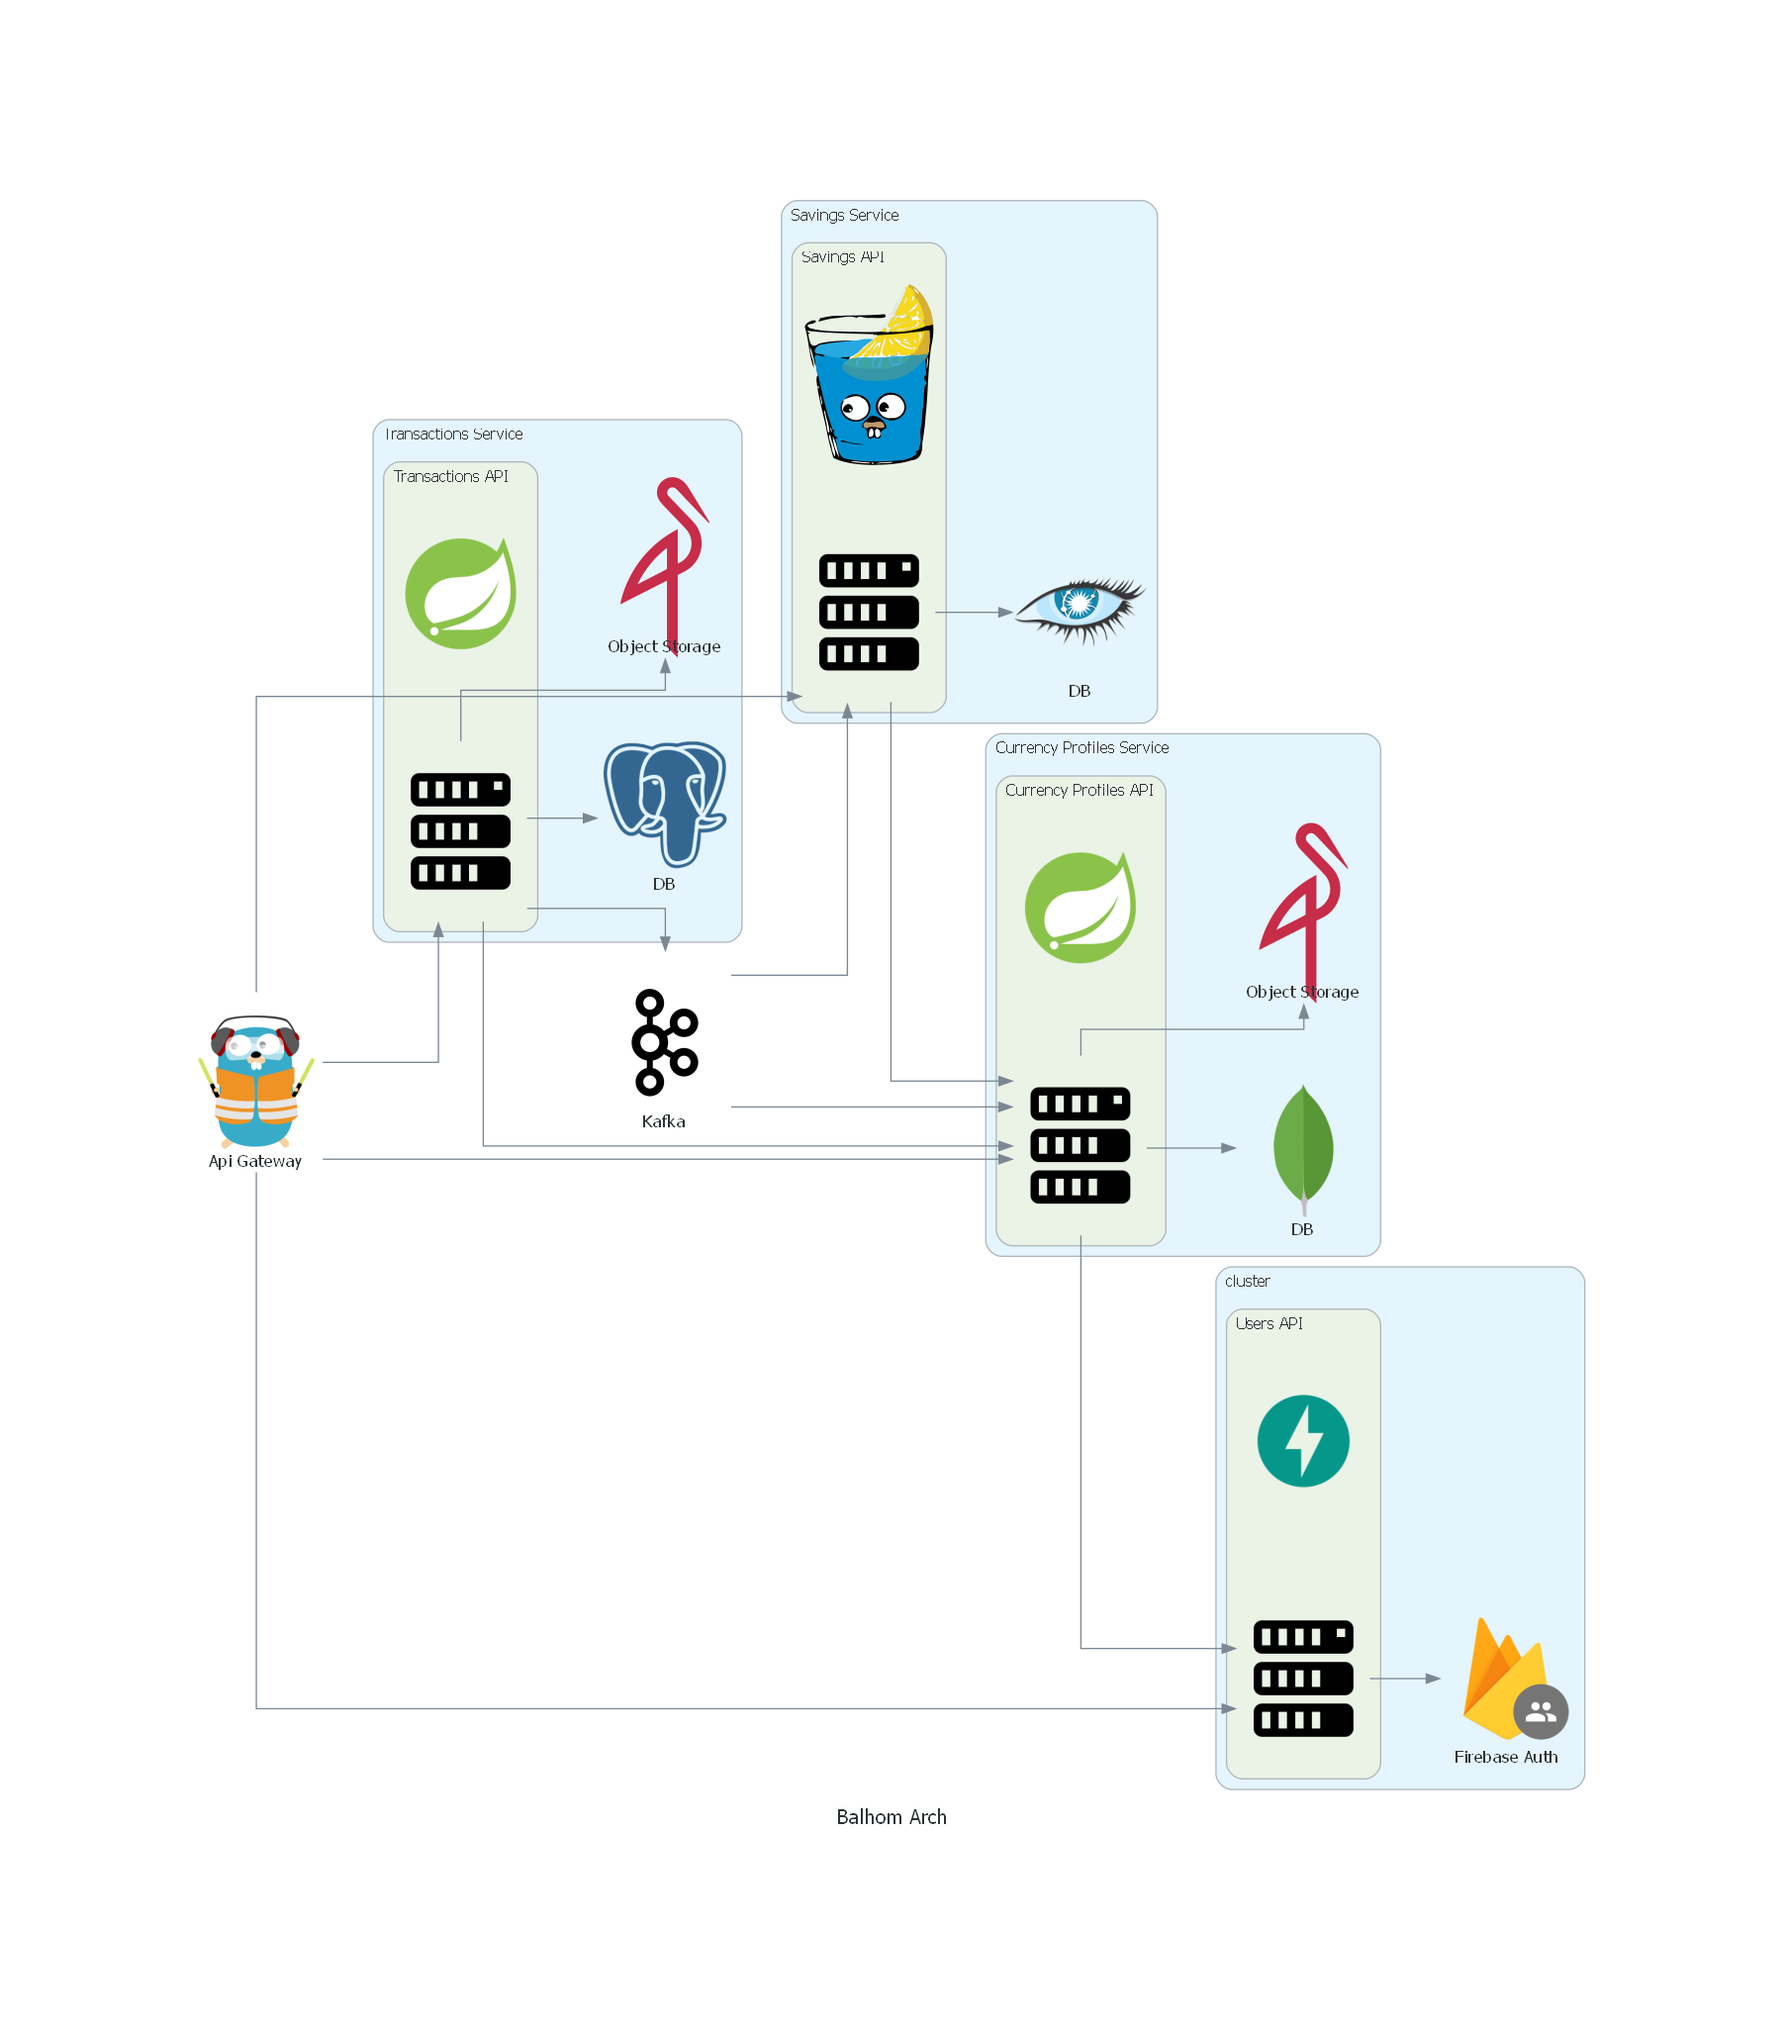
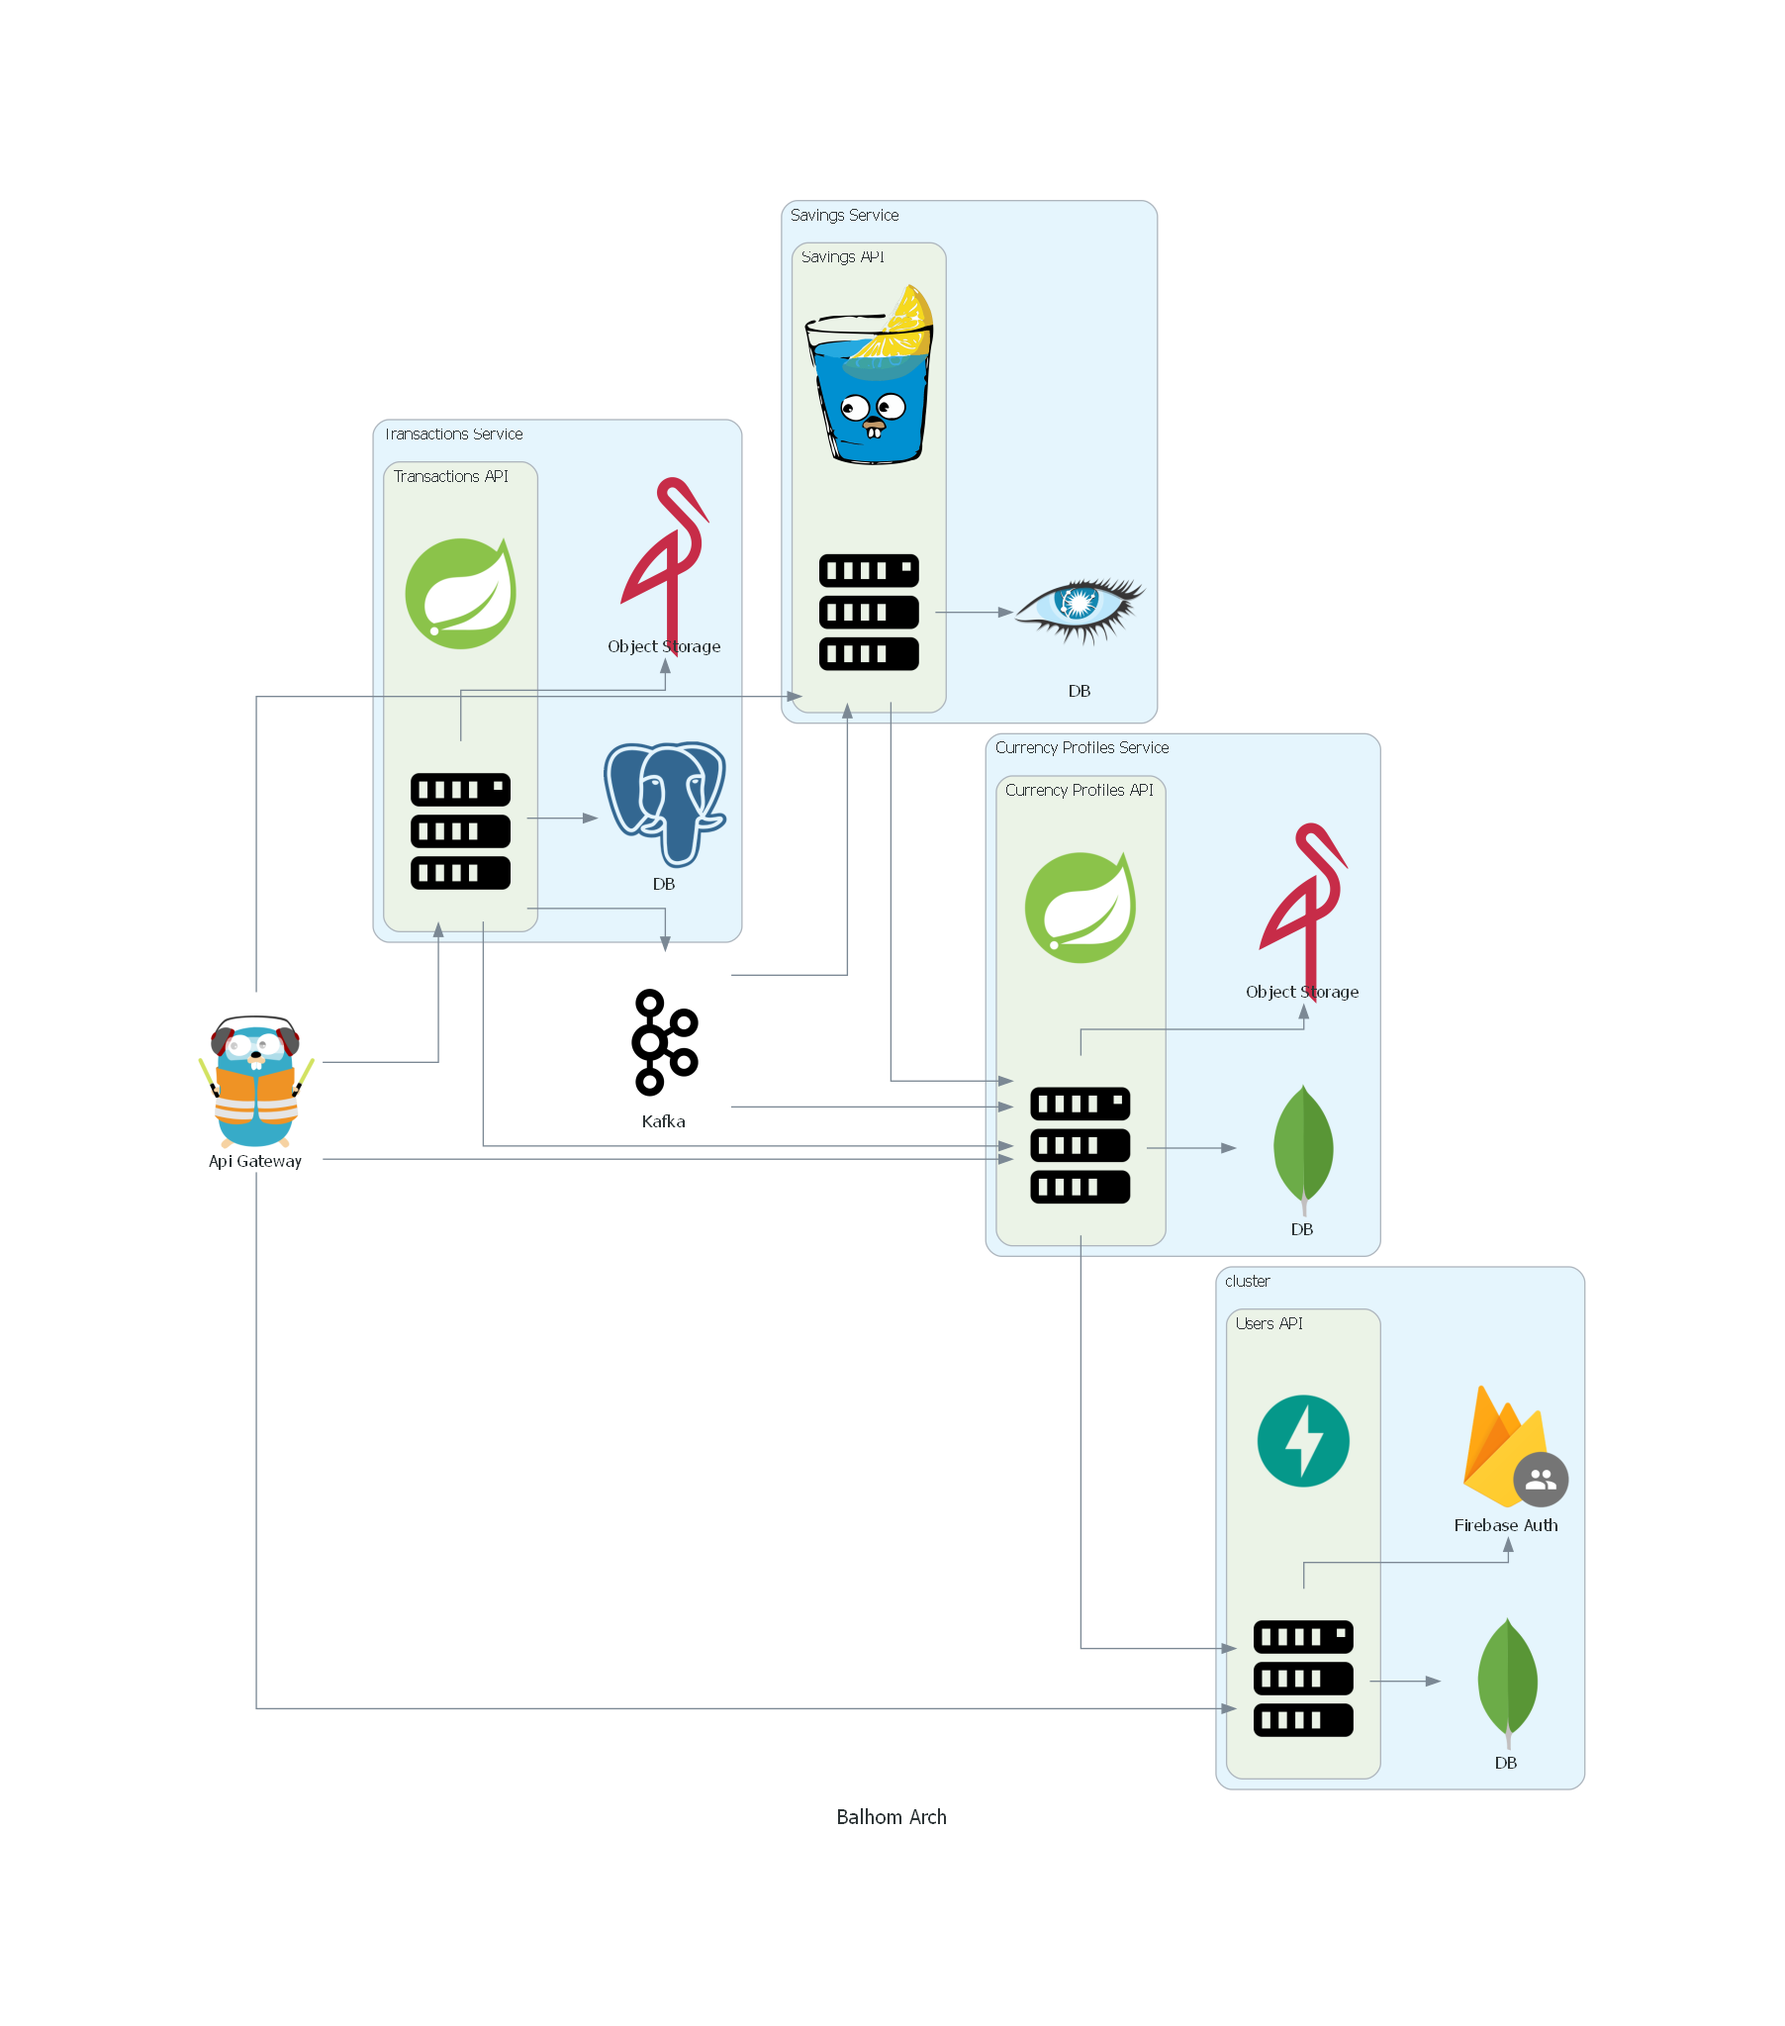
Add MongoDB integration to Balhom architecture diagram

Changed region(s): [[0.8071, 0.8002, 0.9002, 0.8925], [0.8071, 0.6771, 0.9002, 0.7694]]

diff --git a/arch/balhom_arch.py b/arch/balhom_arch.py
@@ -60,8 +60,10 @@ with Diagram("Balhom Arch", show=True):
         with Cluster("Users API"):
             users_api = Server()
             FastAPI()
+        users_db = Mongodb("DB")
         firebase_auth = Authentication("Firebase Auth")
         
+        users_api >> users_db
         users_api >> firebase_auth
 
     api_gateway = Traefik("Api Gateway")
